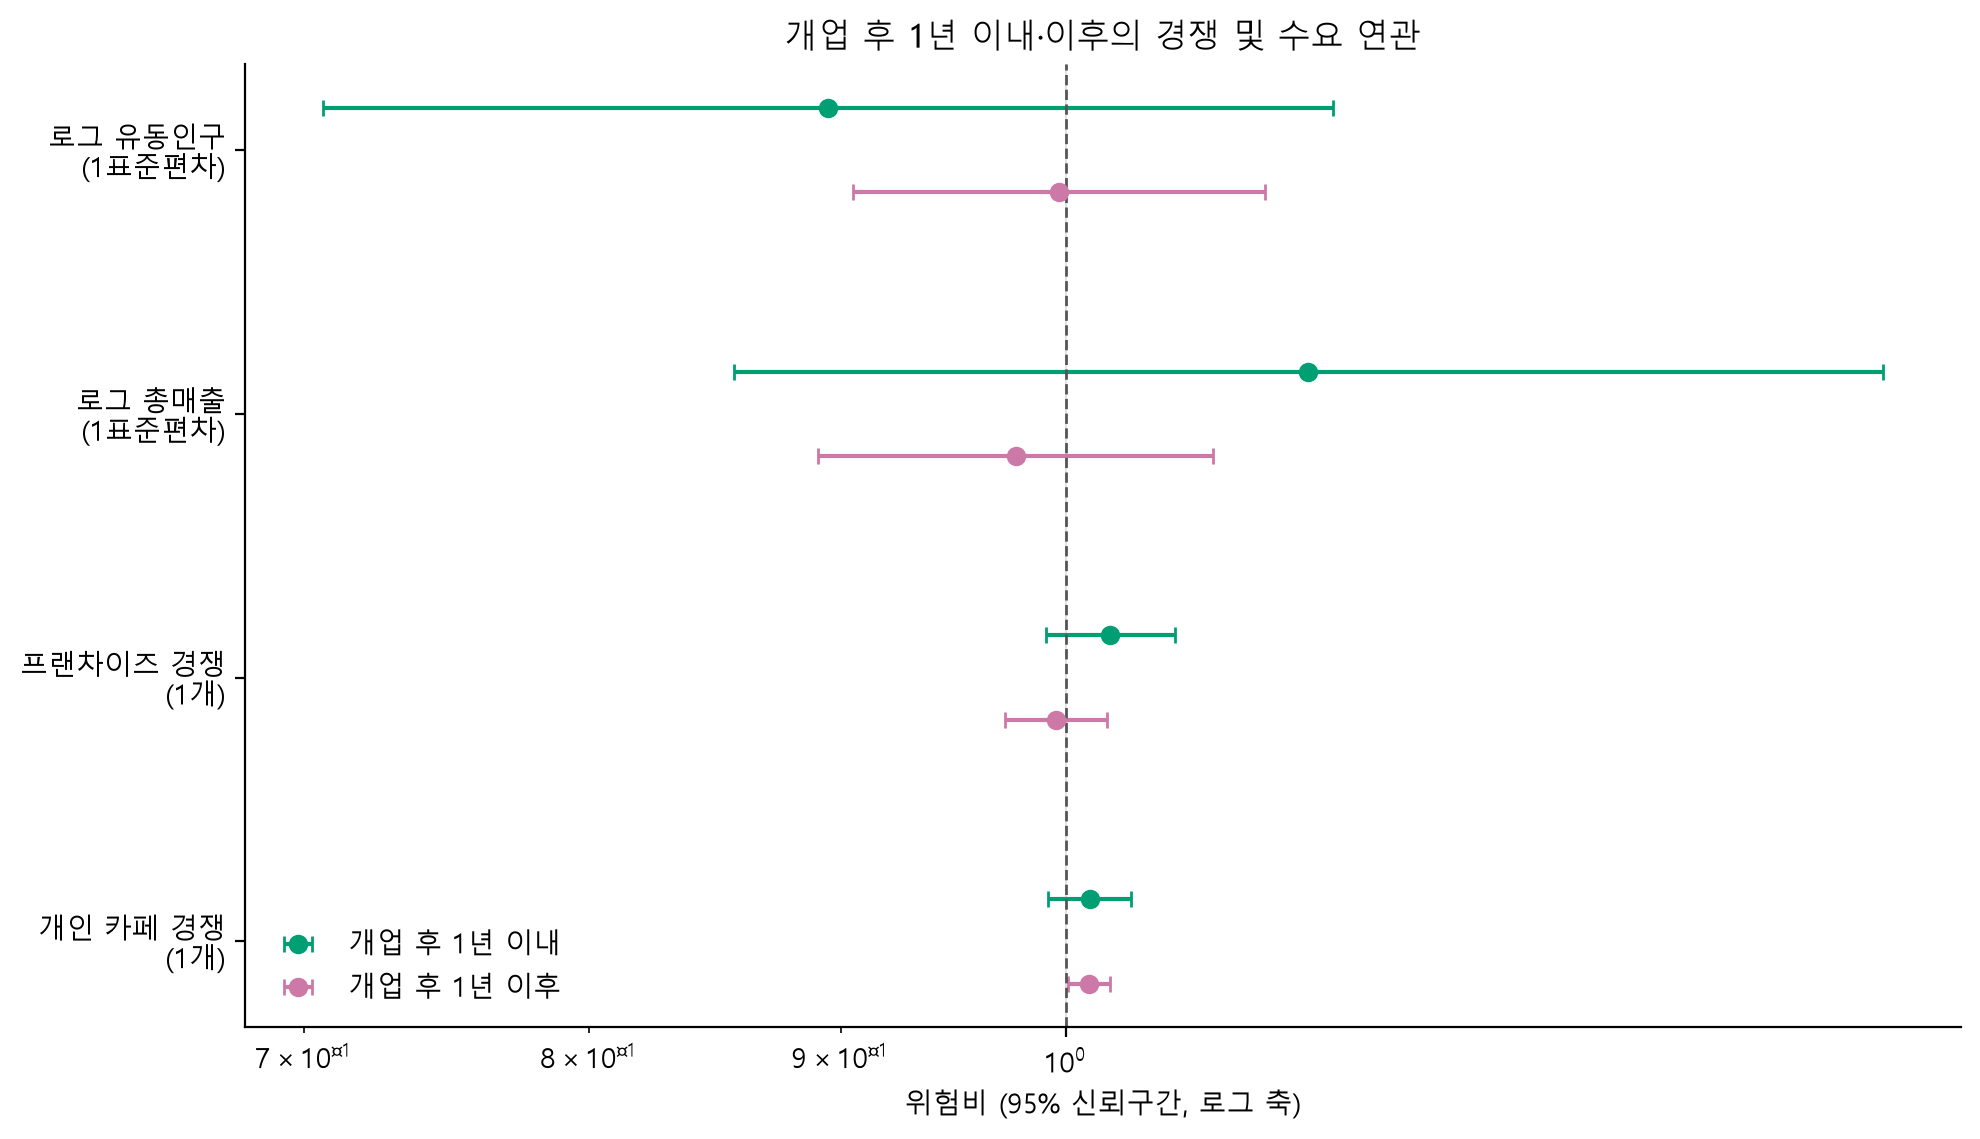
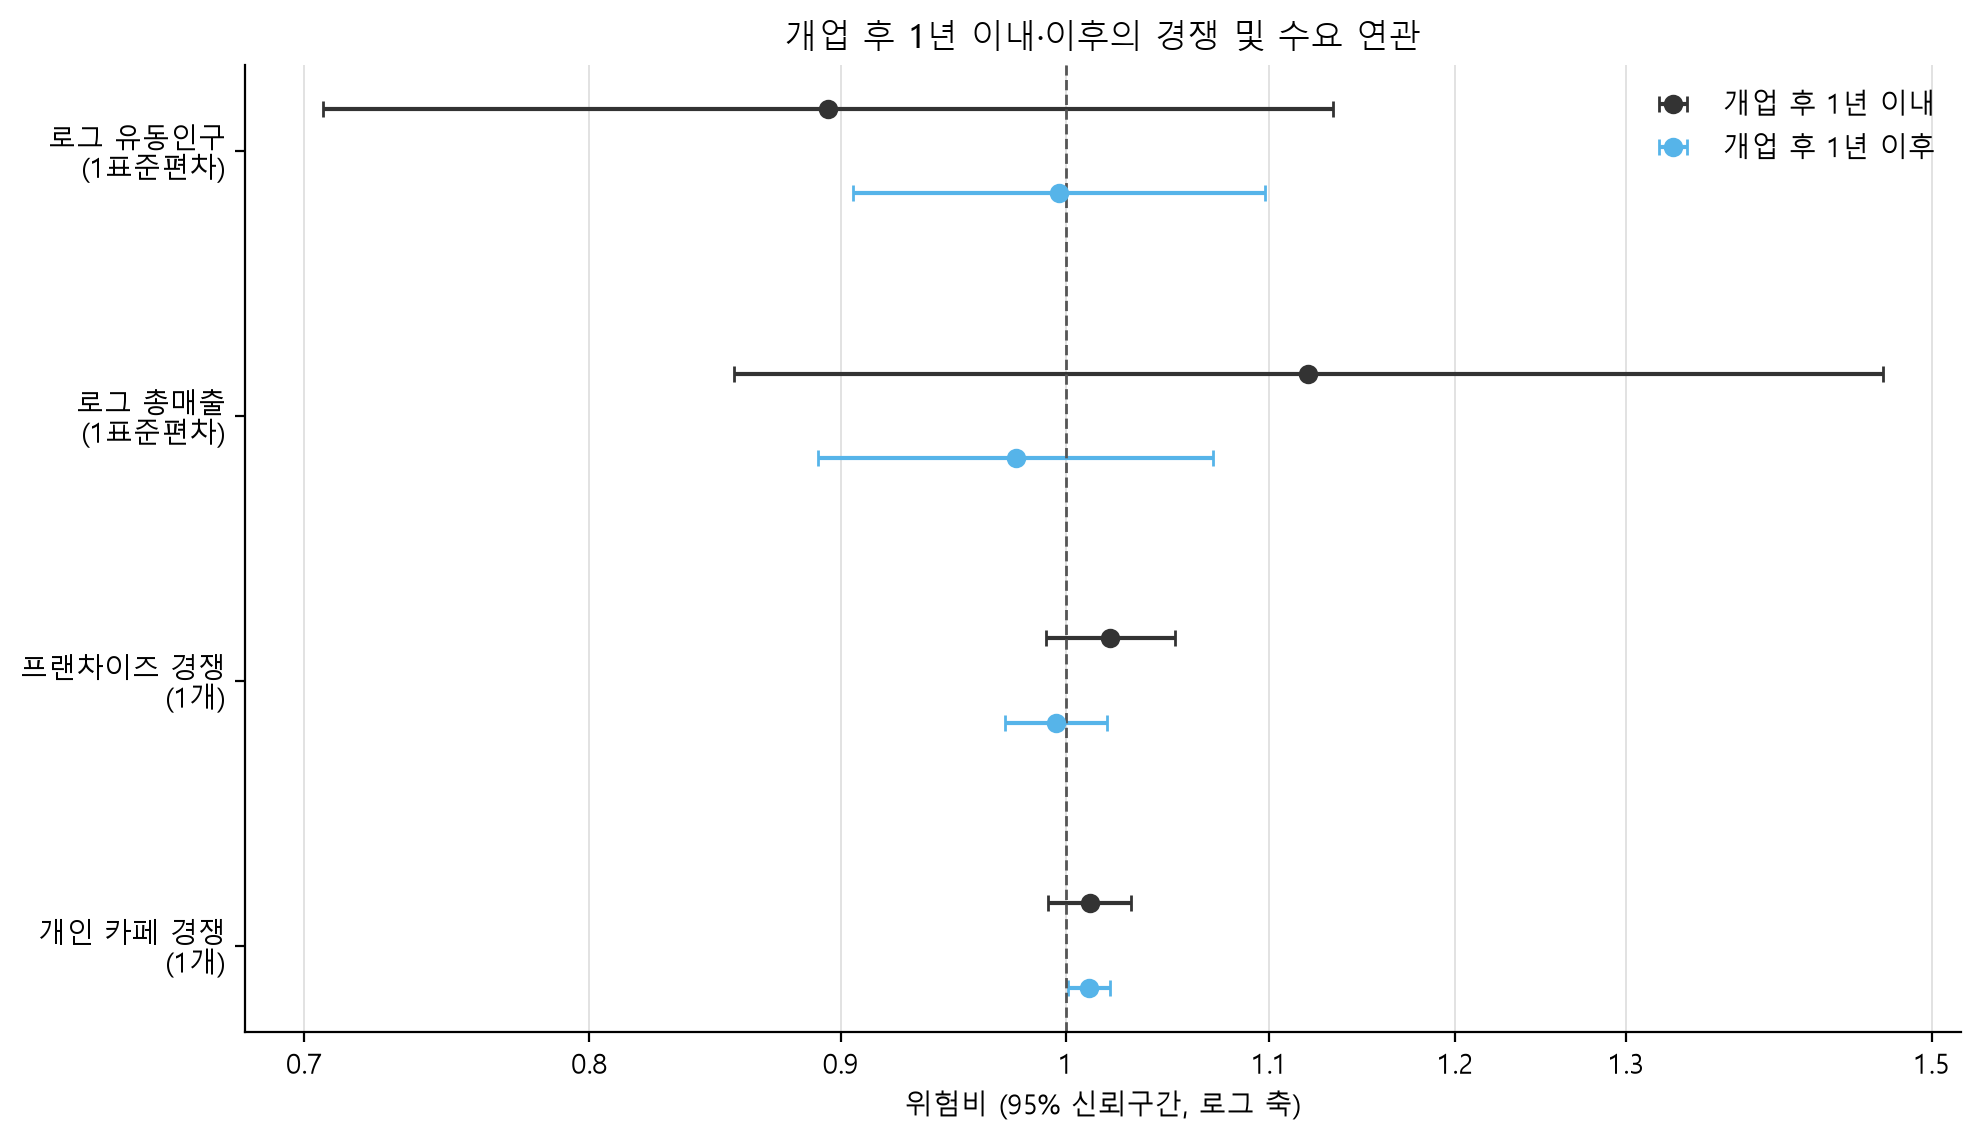
문서: 개업 초기·이후 위험비 그림의 축 눈금 글자와 구간 색 수정
로그 축 눈금을 소수 형식으로 직접 지정해 마이너스 글자 깨짐을 없애고,
개업 시기 색과 겹치던 1년 이내·이후 색을 짙은 회색·하늘색으로 바꿨다.
그림은 저장된 효과 표로 다시 그려 05 수치는 바뀌지 않았다.

diff --git a/src/05_cox_time_split.py b/src/05_cox_time_split.py
@@ -19,6 +19,7 @@ import matplotlib
 
 matplotlib.use("Agg")
 import matplotlib.pyplot as plt
+from matplotlib.ticker import FixedLocator, FuncFormatter, NullLocator
 import numpy as np
 import pandas as pd
 from lifelines import CoxPHFitter
@@ -264,7 +265,8 @@ def plot_effects(effects: pd.DataFrame) -> None:
     fig, axis = plt.subplots(figsize=(10, 5.8))
     y_base = np.arange(len(order))
     positions = {PERIOD_LABELS[0]: y_base + .16, PERIOD_LABELS[1]: y_base - .16}
-    colors = {PERIOD_LABELS[0]: "#009E73", PERIOD_LABELS[1]: "#CC79A7"}
+    # 개업 시기 색(#009E73·#CC79A7)과 겹치지 않게 구간 색을 따로 쓴다.
+    colors = {PERIOD_LABELS[0]: "#333333", PERIOD_LABELS[1]: "#56B4E9"}
     for period in PERIOD_LABELS:
         current = selected.loc[selected["period"].eq(period)].set_index("variable").loc[order]
         hr = current["hazard_ratio"].to_numpy(float)
@@ -277,11 +279,15 @@ def plot_effects(effects: pd.DataFrame) -> None:
         )
     axis.axvline(1, color="#555555", linestyle="--", linewidth=1)
     axis.set_xscale("log")
+    # 맑은 고딕에는 U+2212 마이너스 글자가 없어 로그 축 기본 눈금(mathtext)이 깨진다.
+    axis.xaxis.set_major_locator(FixedLocator([0.7, 0.8, 0.9, 1.0, 1.1, 1.2, 1.3, 1.5]))
+    axis.xaxis.set_major_formatter(FuncFormatter(lambda value, _: f"{value:g}"))
+    axis.xaxis.set_minor_locator(NullLocator())
     axis.set_yticks(y_base, [labels[name] for name in order])
     axis.set_xlabel("위험비 (95% 신뢰구간, 로그 축)")
     axis.set_title("개업 후 1년 이내·이후의 경쟁 및 수요 연관")
     axis.grid(axis="x", color="#E2E2E2", linewidth=.7)
-    axis.legend(frameon=False, loc="lower left")
+    axis.legend(frameon=False, loc="upper right")
     fig.tight_layout()
     fig.savefig(FIGURE_DIR / "05_cox_time_split_hr.png", bbox_inches="tight", dpi=200)
     plt.close(fig)
